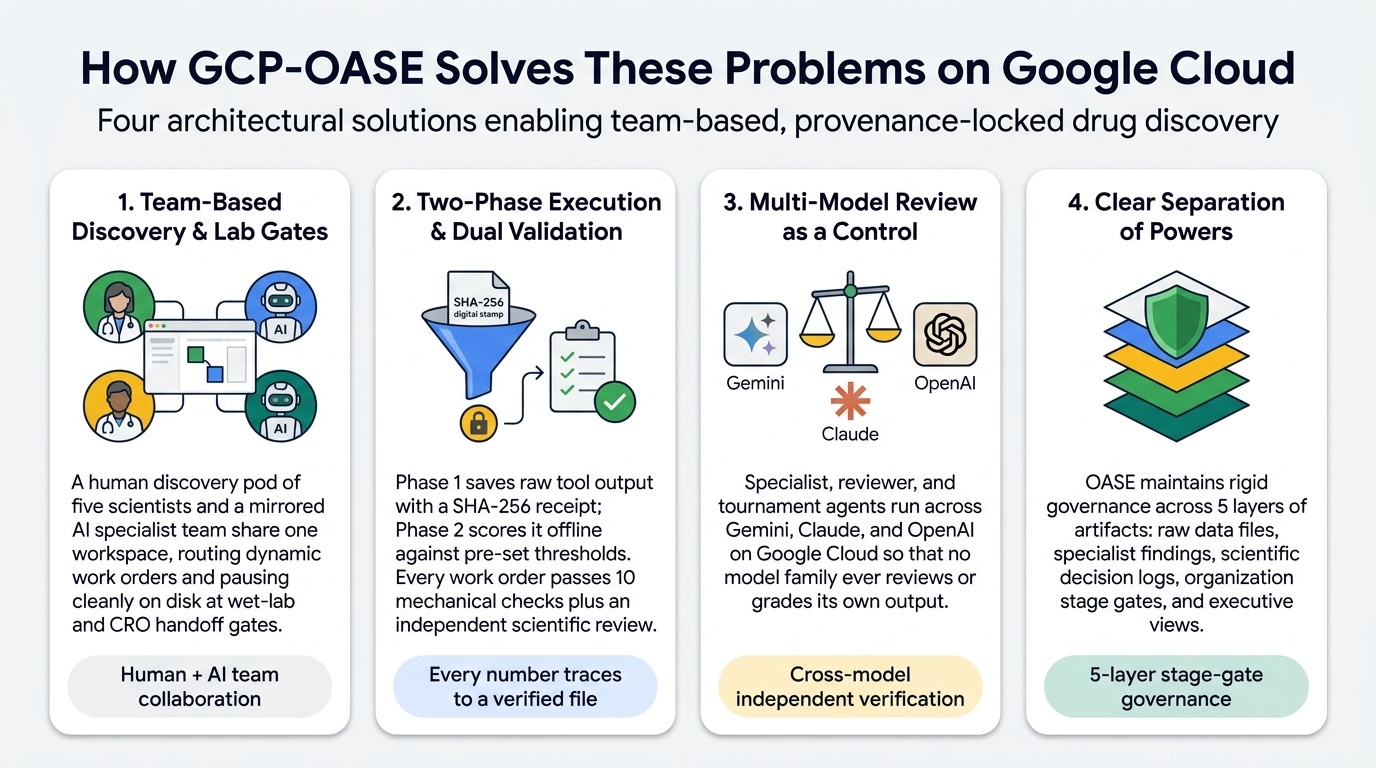
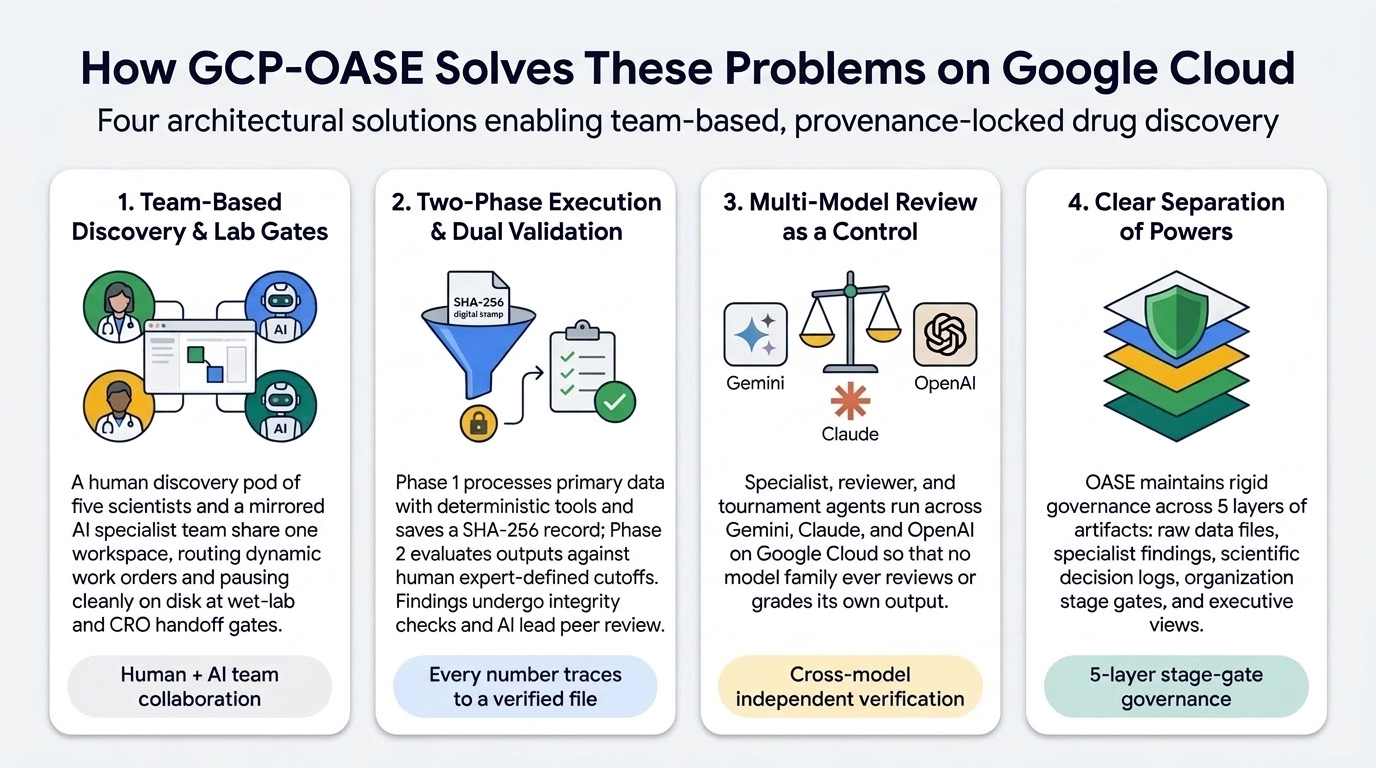
Apply reviewer updates to Data & Control Architecture pillar order and Two-Phase Execution text/diagrams

Changed region(s): [[0.2812, 0.625, 0.5, 0.8438]]

diff --git a/scripts/build-chapter-portal.py b/scripts/build-chapter-portal.py
@@ -157,7 +157,7 @@ CHAPTERS_HTML = r"""<!DOCTYPE html>
             <tr id="why-row-2">
               <td><strong>2. The Chatbot Fabrication Trap</strong></td>
               <td>Summarizes large tables in prompt context, invents plausible binding numbers, pads citations, or confuses <code>NA</code> with <code>0</code>.</td>
-              <td><strong>Two-phase tool execution &amp; verified citations:</strong> Raw tool outputs + SHA-256 receipts are scored offline; every number in prose is checked within <strong>&plusmn;1%</strong> (<code>CIT-003</code>).</td>
+              <td><strong>Two-Phase Tool Execution &amp; Dual Validation:</strong> <strong>Phase 1 (Data Acquisition):</strong> Primary scientific datasets are processed by deterministic scientific tools rather than passed through an LLM prompt, and raw results are written to disk alongside a cryptographic (SHA-256) provenance record. <strong>Phase 2 (Pre-Registered Threshold Evaluation):</strong> Executes offline to evaluate those primary outputs against human expert-defined program cutoffs. Before any finding is accepted, it must pass both automated data-integrity verification and an independent scientific peer review by the AI program lead.</td>
             </tr>
             <tr id="why-row-3">
               <td><strong>3. The Single-Model Echo Chamber</strong></td>
@@ -203,13 +203,13 @@ CHAPTERS_HTML = r"""<!DOCTYPE html>
   <section class="chapter-panel" id="panel-scion">
     <div class="chapter-header">
       <h2>Act I (Part 2) — GCP-OASE Data and Control Architecture</h2>
-      <span class="stage-pill">1. The Grove · 2. Work Orders &amp; Dual Validation · 3. Stage-Gate Review · 4. Two-Phase Tool Execution</span>
+      <span class="stage-pill">1. The Grove · 2. Work Orders &amp; Dual Validation · 3. Two-Phase Tool Execution · 4. Stage-Gate Review</span>
     </div>
     <div class="stack-full">
       <div class="plate-box" id="plate-benefits">
         <img src="assets/oase_benefits.jpg" alt="GCP-OASE Value Proposition" onclick="openLightbox(this.src, this.alt)">
         <div class="plate-caption">
-          <span>Figure 4 — Four core solutions: Dynamic Routing &amp; Lab Gates, Two-Phase Tool Execution, Multi-Model Agent Teams, and 5-Layer Separation of Powers.</span>
+          <span>Figure 4 — Four core solutions: Dynamic Routing &amp; Lab Gates, Two-Phase Tool Execution &amp; Dual Validation, Multi-Model Agent Teams, and 5-Layer Separation of Powers.</span>
           <span class="zoom-hint" onclick="openLightbox(this.parentElement.previousElementSibling.src, this.parentElement.previousElementSibling.alt)">&#128269; Click to enlarge</span>
         </div>
       </div>
@@ -217,7 +217,7 @@ CHAPTERS_HTML = r"""<!DOCTYPE html>
       <div class="plate-box" id="plate-arch">
         <img src="assets/oase_data_arch.jpg" alt="GCP-OASE Data and Control Architecture" onclick="openLightbox(this.src, this.alt)">
         <div class="plate-caption">
-          <span>Figure 5 — The 4 Architectural Mechanisms: The Grove, Work Orders &amp; Dual Validation, Stage-Gate Review, and Two-Phase Tool Execution across 5 Artifact Layers.</span>
+          <span>Figure 5 — The 4 Core Pillars: 1. The Grove, 2. Work Orders &amp; Dual Validation, 3. Two-Phase Tool Execution, and 4. Stage-Gate Review.</span>
           <span class="zoom-hint" onclick="openLightbox(this.parentElement.previousElementSibling.src, this.parentElement.previousElementSibling.alt)">&#128269; Click to enlarge</span>
         </div>
       </div>
@@ -230,15 +230,15 @@ CHAPTERS_HTML = r"""<!DOCTYPE html>
           </div>
           <div class="pillar-card" id="scion-card-2">
             <h4>2. Work Orders &amp; Dual Validation ("How is work checked?")</h4>
-            <p>Every assignment is a numbered Work Order (<code>WO-001</code>..<code>WO-008</code>). Before promotion, every finding must pass <strong>10 automated mechanical checks</strong> (<code>oase validate check</code>) plus an independent <strong>scientific review</strong>.</p>
+            <p>Every assignment is a numbered Work Order (<code>WO-001</code>..<code>WO-008</code>). Before closure, every finding must pass automated <strong>data-integrity verification</strong> (<code>oase validate check</code>) plus an independent <strong>scientific peer review</strong> by the AI Program Lead.</p>
           </div>
           <div class="pillar-card" id="scion-card-3">
-            <h4>3. Stage-Gate Review ("Who decides to move forward?")</h4>
-            <p>Work orders roll up into five logged gates: <strong>1. Target validation</strong> (AI + human sign), <strong>2. Hit ID</strong> (AI signs, logs liabilities), <strong>3. Lead opt</strong> (AI signs once resolved), <strong>4. Lab handoff</strong> (human signs; pauses on disk), and <strong>5. Candidate nomination</strong> (AI + human sign).</p>
+            <h4>3. Two-Phase Tool Execution ("Why trust the numbers?")</h4>
+            <p><strong>Phase 1 (Data Acquisition)</strong> processes primary datasets with deterministic tools and saves raw outputs + SHA-256 provenance records (<code>.meta.json</code>). <strong>Phase 2 (Threshold Evaluation)</strong> evaluates outputs offline against human expert-defined program cutoffs (<code>.analysis.json</code>) and attaches required caveats.</p>
           </div>
           <div class="pillar-card" id="scion-card-4">
-            <h4>4. Two-Phase Tool Execution ("Why trust the numbers?")</h4>
-            <p><strong>Phase 1 (Run/Fetch)</strong> writes raw tool outputs + SHA-256 receipts (<code>.meta.json</code>). <strong>Phase 2 (Analyze)</strong> scores outputs offline against 36 fixed threshold sets (<code>.analysis.json</code>) and emits mandatory <code>**Relay:**</code> caveats.</p>
+            <h4>4. Stage-Gate Review ("Who decides to move forward?")</h4>
+            <p>Work orders roll up into five logged gates: <strong>1. Target validation</strong> (AI + human sign), <strong>2. Hit ID</strong> (AI signs, logs liabilities), <strong>3. Lead opt</strong> (AI signs once resolved), <strong>4. Lab handoff</strong> (human signs; pauses on disk), and <strong>5. Candidate nomination</strong> (AI + human sign).</p>
           </div>
         </div>
         <h4 style="margin: 0.9rem 0 0.4rem 0; color: #0f172a;">Worked Example of Two-Phase Execution (Step 3 Pocket Analysis)</h4>

diff --git a/ARTICLE.md b/ARTICLE.md
@@ -41,7 +41,7 @@ Giving AI agents access to biological databases and structure predictors can acc
 | Challenge | GCP-OASE Solution |
 |---|---|
 | **1. The rigid workflow problem** | **Team-Based Discovery & Dynamic Work Orders:** A **human discovery pod of five scientists** and a **mirrored AI agent team** collaborate in a shared workspace. The team routes dynamic work orders across a 9-state lifecycle and pauses cleanly on disk at wet-lab and CRO handoff gates until experimental data files return. |
-| **2. The chatbot fabrication trap** | **Two-Phase Tool Execution & Dual Validation:** Raw matrices never enter the LLM context window. **Phase 1** runs the tool and saves raw output to disk with a SHA-256 fingerprint receipt. **Phase 2** runs with network access turned off to score the saved output against pre-defined program thresholds. Every work order must pass ten automated mechanical checks plus an independent scientific review by the AI program lead. |
+| **2. The chatbot fabrication trap** | **Two-Phase Tool Execution & Dual Validation:** **Phase 1 (Data Acquisition):** Primary scientific datasets are processed by deterministic scientific tools rather than passed through an LLM prompt, and raw results are written to disk alongside a cryptographic (SHA-256) provenance record. **Phase 2 (Pre-Registered Threshold Evaluation):** Executes offline to evaluate those primary outputs against human expert-defined program cutoffs. Before any finding is accepted, it must pass both automated data-integrity verification and an independent scientific peer review by the AI program lead. |
 | **3. The single-model echo chamber** | **Model Diversity as a Scientific Control:** Specialist, reviewer, and tournament agents are configured across different model families (**Gemini**, **Claude**, and **OpenAI**) on Google Cloud so that no model family ever reviews its own output. |
 | **4. Lack of organizational governance in foundation models** | **Clear Separation of Powers Across 5 Artifact Layers:** OASE maintains rigid governance across 5 layers of artifacts: **raw data files**, **specialist findings**, **scientific decision logs**, **organization stage gates**, and **executive views**. |
 
@@ -49,7 +49,7 @@ Giving AI agents access to biological databases and structure predictors can acc
 
 ## GCP-OASE Data and Control Architecture
 
-OASE organizes every discovery program around four core pillars: **The Grove**, **Work Orders and Dual Validation**, **Stage-Gate Review**, and **Two-Phase Tool Execution**.
+OASE organizes every discovery program around four core pillars: **The Grove**, **Work Orders and Dual Validation**, **Two-Phase Tool Execution**, and **Stage-Gate Review**.
 
 ![GCP-OASE Data and Control Architecture](assets/oase_data_arch.jpg)
 
@@ -57,8 +57,8 @@ OASE organizes every discovery program around four core pillars: **The Grove**, 
 |---|---|---|
 | **1. The Grove** | *Who is doing the work?* | The grove is the shared workspace for one program, and it holds two teams. The **human team** is a discovery pod of five human scientists: a program lead, a computational biologist, a structural biologist, a medicinal chemist, and a DMPK and safety lead. The **agent team** mirrors those disciplines with one specialist AI agent per field, plus an AI program lead, an independent reviewer, and a validator. Agents are spread across different model families (Gemini, Claude, OpenAI) so that no model reviews its own output. Only the AI program lead may write official program decisions. |
 | **2. Work Orders and Dual Validation** | *How is each piece of work tracked and checked?* | Every scientific question the team asks becomes a work order. It is assigned to a specialist agent, produces raw data and a written finding, and cannot close until it passes two independent checks. The first is mechanical: ten automated tests confirm that every number in the finding traces to a data file, that no data file has been altered, and that every required caveat is present. The second is scientific: the AI program lead independently re-examines the evidence and records whether it accepts the conclusion. |
-| **3. Stage-Gate Review** | *Who decides whether the program moves forward?* | Work orders roll up into five formal stage gates, each logged with its evidence, decision, and signer:<br>1. **Target validation (Gate 1):** AI program lead recommends; human program lead signs.<br>2. **Hit identification (Gate 2):** AI program lead advances if preset cutoffs pass and logs any liabilities.<br>3. **Lead optimization (Gate 3):** AI program lead advances once liabilities are resolved.<br>4. **Lab handoff (⏸ Lab Gate):** Human program lead signs; agents pause cleanly on disk until experimental assay files return.<br>5. **Candidate nomination (Gate 4):** AI program lead recommends; human program lead signs. |
-| **4. Two-Phase Tool Execution** | *Why can the numbers in the reports be trusted?* | Every tool runs in two separate steps. First the tool runs and its raw output is saved to disk with a receipt recording the version, the parameters, and a fingerprint of the output file. Second, with network access switched off, that saved output is scored against thresholds the program fixed in advance, and the verdict is written to an analysis file. A specialist's report may only quote numbers from the analysis file, and each quote must cite it. |
+| **3. Two-Phase Tool Execution** | *Why can the numbers in the reports be trusted?* | Every tool runs in two separate steps. First, primary scientific datasets are processed by deterministic scientific tools and raw output is saved to disk with a cryptographic (SHA-256) provenance receipt recording the version, parameters, and file fingerprint. Second, with network access switched off, that saved output is evaluated against human expert-defined program cutoffs fixed in advance, and the verdict is written to an analysis file. A specialist's report may only quote numbers from the analysis file, and each quote must cite it. |
+| **4. Stage-Gate Review** | *Who decides whether the program moves forward?* | Work orders roll up into five formal stage gates, each logged with its evidence, decision, and signer:<br>1. **Target validation (Gate 1):** AI program lead recommends; human program lead signs.<br>2. **Hit identification (Gate 2):** AI program lead advances if preset cutoffs pass and logs any liabilities.<br>3. **Lead optimization (Gate 3):** AI program lead advances once liabilities are resolved.<br>4. **Lab handoff (⏸ Lab Gate):** Human program lead signs; agents pause cleanly on disk until experimental assay files return.<br>5. **Candidate nomination (Gate 4):** AI program lead recommends; human program lead signs. |
 
 ### Worked Example of Two-Phase Execution: The Pocket Check in Step 3
 
